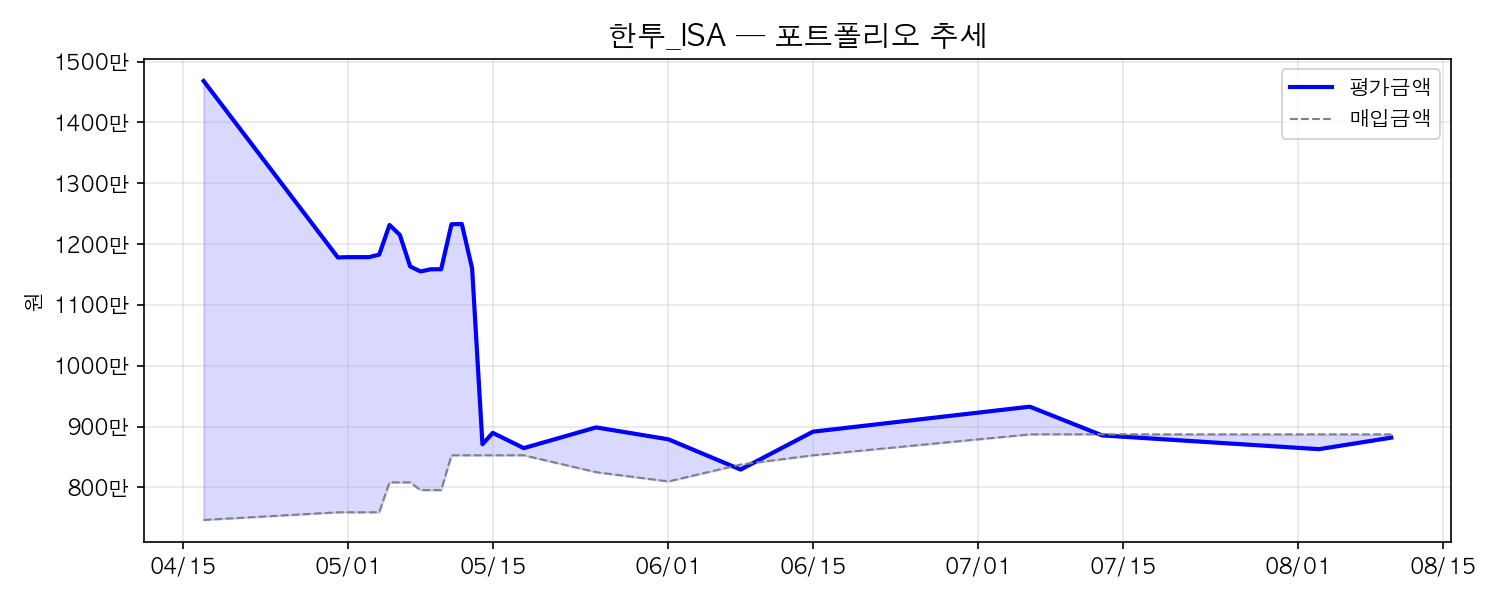
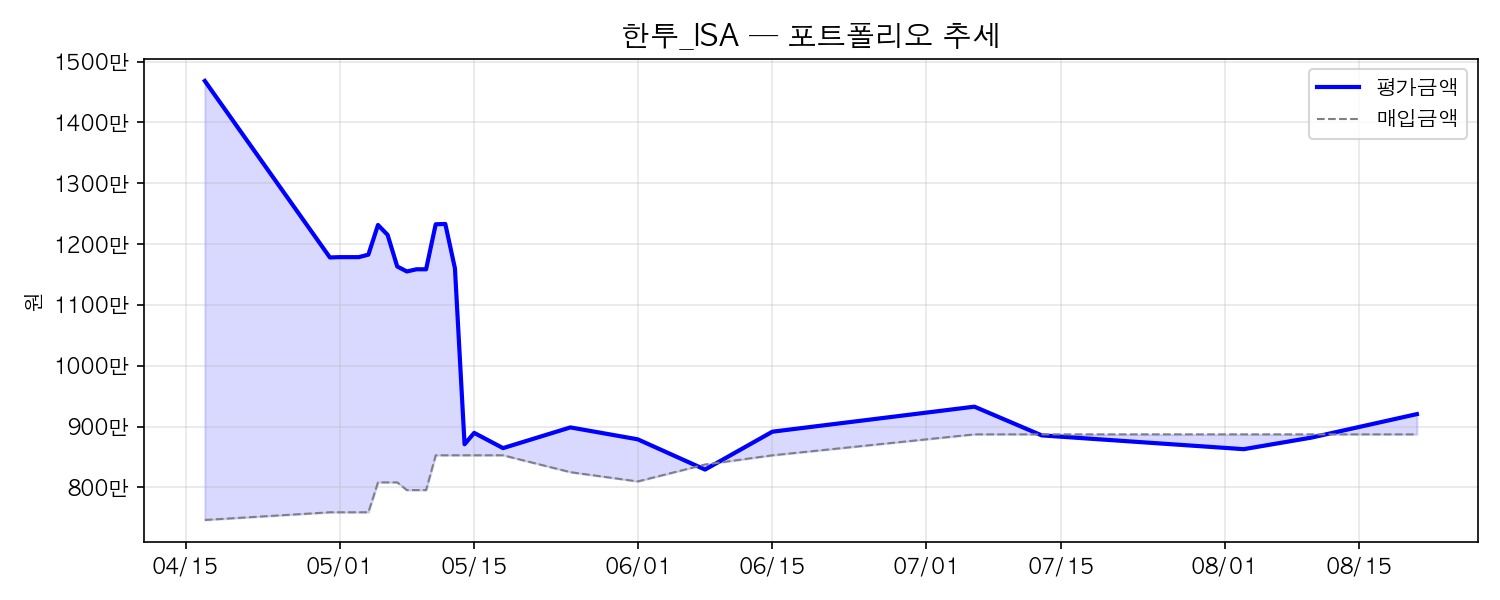
Week 20 리포트 수치 정정 — 8/10 스냅샷으로 발행된 것을 8/21 실데이터로 교체
대시보드 스냅샷이 8/10 이후 멈춘 상태에서 weekly.py가 경고 없이
최신(=8/10) 스냅샷으로 대체해 "8/21 장 마감 기준"으로 발행함.
RISE 200이 99,880(8/10대)으로 찍혀 부모님 계좌 손익이
실제 +2.1%인데 -0.3%로 표시됨.

- 부모님 연금 ETF: -0.3% → +2.1% (엄마 +98,673 / 아빠 +97,778)
- ISA 배당 포트: 수치 갱신 (+3.2%)

diff --git a/_posts/2026-08-21-etf-weekly-week20.md b/_posts/2026-08-21-etf-weekly-week20.md
@@ -16,14 +16,14 @@ tags: [weekly]
 
 | 종목 | 수량 | 평단가 | 종가 | 평가액 | 수익률 |
 |------|------|--------|------|--------|--------|
-| ACE KRX금현물 | 43주 | ₩30,797 | ₩27,520 | ₩1,183,360 | -10.6% |
-| RISE 200 | 11주 | ₩84,442 | ₩99,880 | ₩1,098,680 | +18.3% |
-| KODEX 미국S&P500 | 37주 | ₩23,096 | ₩24,650 | ₩912,050 | +6.7% |
-| TIGER Fn신재생에너지 | 29주 | ₩27,378 | ₩24,230 | ₩702,670 | -11.5% |
-| KODEX 인도Nifty50 | 37주 | ₩12,506 | ₩12,290 | ₩454,730 | -1.7% |
-| TIGER 원유선물Enhanced(H) | 41주 | ₩6,413 | ₩6,425 | ₩263,425 | +0.2% |
+| ACE KRX금현물 | 43주 | ₩30,797 | ₩28,450 | ₩1,223,350 | -7.6% |
+| RISE 200 | 11주 | ₩84,442 | ₩110,765 | ₩1,218,415 | +31.2% |
+| KODEX 미국S&P500 | 37주 | ₩23,096 | ₩23,910 | ₩884,670 | +3.5% |
+| TIGER Fn신재생에너지 | 29주 | ₩27,378 | ₩23,160 | ₩671,640 | -15.4% |
+| KODEX 인도Nifty50 | 37주 | ₩12,506 | ₩11,795 | ₩436,415 | -5.7% |
+| TIGER 원유선물Enhanced(H) | 41주 | ₩6,413 | ₩7,110 | ₩291,510 | +10.9% |
 
-**투자 ₩4,627,327 → 평가 ₩4,614,915 | -12,412원 (-0.3%)**
+**투자 ₩4,627,327 → 평가 ₩4,726,000 | +98,673원 (+2.1%)**
 
 예수금: ₩1,996,699
 ---
@@ -32,15 +32,15 @@ tags: [weekly]
 
 | 종목 | 수량 | 평단가 | 종가 | 평가액 | 수익률 |
 |------|------|--------|------|--------|--------|
-| ACE KRX금현물 | 43주 | ₩30,799 | ₩27,515 | ₩1,183,145 | -10.7% |
-| RISE 200 | 11주 | ₩84,479 | ₩99,880 | ₩1,098,680 | +18.2% |
-| KODEX 미국S&P500 | 37주 | ₩23,094 | ₩24,650 | ₩912,050 | +6.7% |
-| TIGER Fn신재생에너지 | 29주 | ₩27,371 | ₩24,230 | ₩702,670 | -11.5% |
-| KODEX 인도Nifty50 | 37주 | ₩12,515 | ₩12,290 | ₩454,730 | -1.8% |
-| TIGER 원유선물Enhanced(H) | 41주 | ₩6,405 | ₩6,425 | ₩263,425 | +0.3% |
-| PLUS 고배당주 | 1주 | ₩25,370 | ₩24,830 | ₩24,830 | -2.1% |
+| ACE KRX금현물 | 43주 | ₩30,799 | ₩28,450 | ₩1,223,350 | -7.6% |
+| RISE 200 | 11주 | ₩84,479 | ₩110,765 | ₩1,218,415 | +31.1% |
+| KODEX 미국S&P500 | 37주 | ₩23,094 | ₩23,910 | ₩884,670 | +3.5% |
+| TIGER Fn신재생에너지 | 29주 | ₩27,371 | ₩23,160 | ₩671,640 | -15.4% |
+| KODEX 인도Nifty50 | 37주 | ₩12,515 | ₩11,795 | ₩436,415 | -5.8% |
+| TIGER 원유선물Enhanced(H) | 41주 | ₩6,405 | ₩7,110 | ₩291,510 | +11.0% |
+| PLUS 고배당주 | 1주 | ₩25,370 | ₩24,700 | ₩24,700 | -2.6% |
 
-**투자 ₩4,652,922 → 평가 ₩4,639,530 | -13,392원 (-0.3%)**
+**투자 ₩4,652,922 → 평가 ₩4,750,700 | +97,778원 (+2.1%)**
 
 예수금: ₩1,381,548
 

diff --git a/_posts/2026-08-21-dividend-weekly-week20.md b/_posts/2026-08-21-dividend-weekly-week20.md
@@ -16,15 +16,15 @@ tags: [weekly]
 
 | 종목 | 수량 | 평단가 | 종가 | 평가액 | 수익률 |
 |------|------|--------|------|--------|--------|
-| 삼성화재우 | 5주 | ₩374,400 | ₩397,000 | ₩1,985,000 | +6.0% |
-| KT&G | 10주 | ₩168,190 | ₩184,000 | ₩1,840,000 | +9.4% |
-| 빙그레 | 25주 | ₩73,386 | ₩68,800 | ₩1,720,000 | -6.2% |
-| 고려신용정보 | 175주 | ₩10,209 | ₩9,370 | ₩1,639,750 | -8.2% |
-| KODEX 고배당주 | 94주 | ₩18,052 | ₩17,245 | ₩1,621,030 | -4.5% |
+| 빙그레 | 25주 | ₩73,386 | ₩84,800 | ₩2,120,000 | +15.6% |
+| 삼성화재우 | 5주 | ₩374,400 | ₩417,000 | ₩2,085,000 | +11.4% |
+| KT&G | 10주 | ₩168,190 | ₩172,300 | ₩1,723,000 | +2.4% |
+| KODEX 고배당주 | 94주 | ₩18,052 | ₩17,300 | ₩1,626,200 | -4.2% |
+| 고려신용정보 | 175주 | ₩10,209 | ₩9,130 | ₩1,597,750 | -10.6% |
 
-**투자 ₩8,872,110 → 평가 ₩8,805,780 | -66,330원 (-0.7%)**
+**투자 ₩8,872,110 → 평가 ₩9,151,950 | +279,840원 (+3.2%)**
 
-예수금: ₩12,032
+예수금: ₩53,032
 
 
 ---
